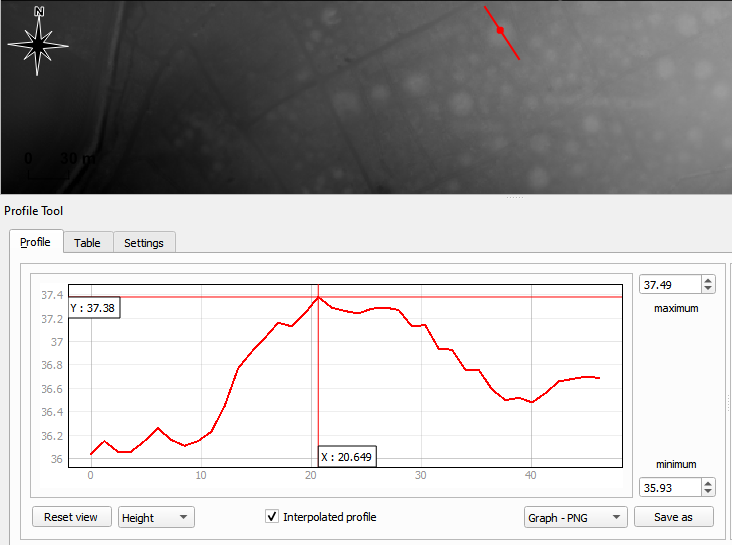
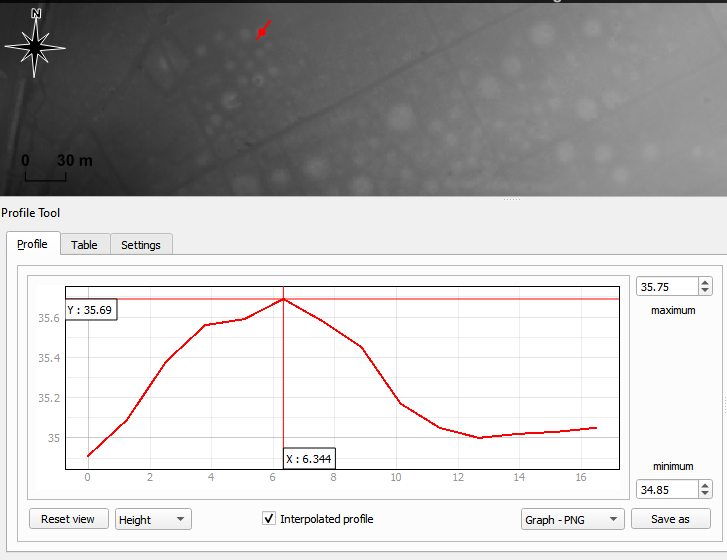
Updates

diff --git a/Task03/.ipynb_checkpoints/README-checkpoint.md b/Task03/.ipynb_checkpoints/README-checkpoint.md
@@ -63,17 +63,16 @@ To measure the mound heights relative to their direct environment, the "profile 
 Clicking on Plugins > Profile Tool > Terrain Profile, we can access the profile tool to measure directly on the map.
 Simply drawing a line over the mounds in the DTM layer to measure their elevations. We extended the line as much as we can so we can identify the heights. We used many lines over many burial mounds with many directions so we can take a better idea about the elevations.
 
-![Burial Mounds Elevation Measurements 1](images/elevation_measurements)
+![Burial Mounds Elevation Measurements 1](images/elevation_measurements_1)
 ![Burial Mounds Elevation Measurements 2](images/elevation_measurements_2)
 ![Burial Mounds Elevation Measurements 3](images/elevation_measurements_3)
 ![Burial Mounds Elevation Measurements 4](images/elevation_measurements_4)
 ![Burial Mounds Elevation Measurements 5](images/elevation_measurements_5)
 ![Burial Mounds Elevation Measurements 6](images/elevation_measurements_6)
-![Burial Mounds Elevation Measurements 7](images/elevation_measurements_7)
 
 In the pictures, the red lines on the map are showing the relative burial mounds measured, and we can see in the table the elevation above the sea. The lines were drawn from the top to the bottom, so it is reflected in the graph starting from 0 on the x axis.
 The x axis represent the distance in meters of the red line, and the y line represents the elevation above the sea.
-In order to identify how much is the elevation from the direct environment we can see the tables. For example in the picture number one we can see that the lowest elevation is 34 meters above the sea and the highest is 35 meters, it means the direct environment elevation in this burial mound is 1 meter.
+In order to identify how much is the elevation from the direct environment we can see the tables. For example in the picture number one we can see that the lowest elevation is approximately 36 meters above the sea and the highest is approximately 37.4 meters, it means the direct environment elevation in this burial mound is 1.4 meter.
 Some of them have 1.5 meters direct environment elevation, others have 0.5 meters. The average range concluded is between 0.5 and 1.5 meters. 
 We can also see an elevation difference above the sea between the burial mounds themselves, that is logically showing that the land is not completely flat, it has a small angle, starting from the left burial mounds measured at 35 meters above the sea to the last burial mounds measured on the right at 38 meters, at the lowest points measured.
 

diff --git a/Task03/README.md b/Task03/README.md
@@ -63,17 +63,16 @@ To measure the mound heights relative to their direct environment, the "profile 
 Clicking on Plugins > Profile Tool > Terrain Profile, we can access the profile tool to measure directly on the map.
 Simply drawing a line over the mounds in the DTM layer to measure their elevations. We extended the line as much as we can so we can identify the heights. We used many lines over many burial mounds with many directions so we can take a better idea about the elevations.
 
-![Burial Mounds Elevation Measurements 1](images/elevation_measurements)
+![Burial Mounds Elevation Measurements 1](images/elevation_measurements_1)
 ![Burial Mounds Elevation Measurements 2](images/elevation_measurements_2)
 ![Burial Mounds Elevation Measurements 3](images/elevation_measurements_3)
 ![Burial Mounds Elevation Measurements 4](images/elevation_measurements_4)
 ![Burial Mounds Elevation Measurements 5](images/elevation_measurements_5)
 ![Burial Mounds Elevation Measurements 6](images/elevation_measurements_6)
-![Burial Mounds Elevation Measurements 7](images/elevation_measurements_7)
 
 In the pictures, the red lines on the map are showing the relative burial mounds measured, and we can see in the table the elevation above the sea. The lines were drawn from the top to the bottom, so it is reflected in the graph starting from 0 on the x axis.
 The x axis represent the distance in meters of the red line, and the y line represents the elevation above the sea.
-In order to identify how much is the elevation from the direct environment we can see the tables. For example in the picture number one we can see that the lowest elevation is 34 meters above the sea and the highest is 35 meters, it means the direct environment elevation in this burial mound is 1 meter.
+In order to identify how much is the elevation from the direct environment we can see the tables. For example in the picture number one we can see that the lowest elevation is approximately 36 meters above the sea and the highest is approximately 37.4 meters, it means the direct environment elevation in this burial mound is 1.4 meter.
 Some of them have 1.5 meters direct environment elevation, others have 0.5 meters. The average range concluded is between 0.5 and 1.5 meters. 
 We can also see an elevation difference above the sea between the burial mounds themselves, that is logically showing that the land is not completely flat, it has a small angle, starting from the left burial mounds measured at 35 meters above the sea to the last burial mounds measured on the right at 38 meters, at the lowest points measured.
 
